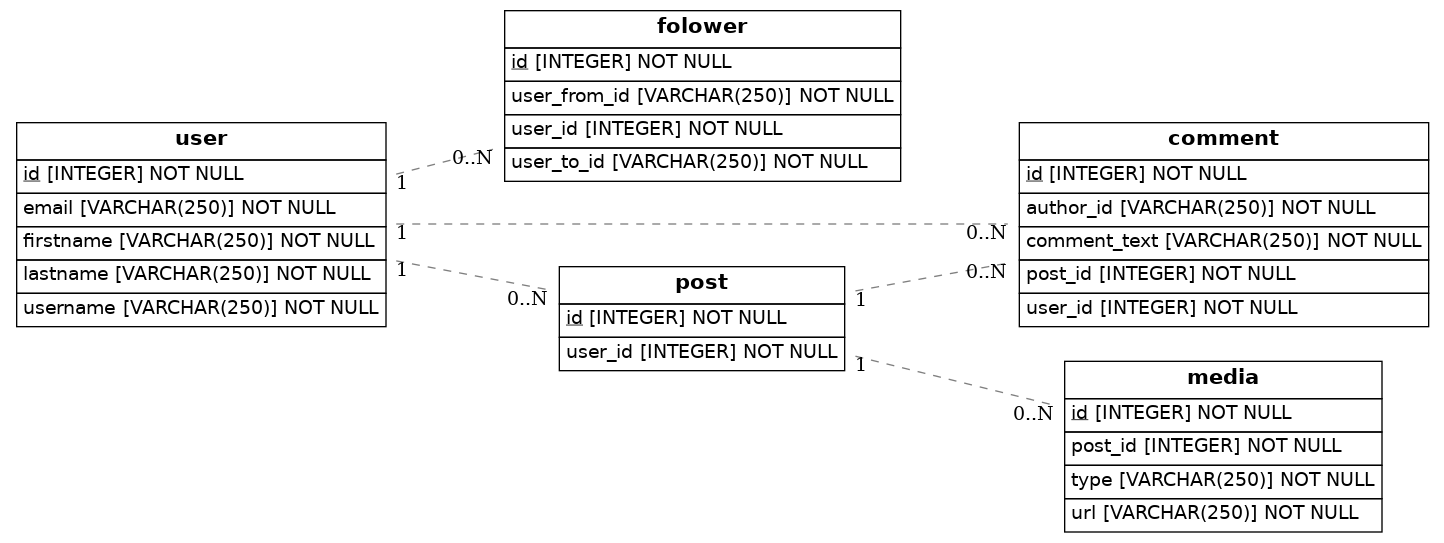
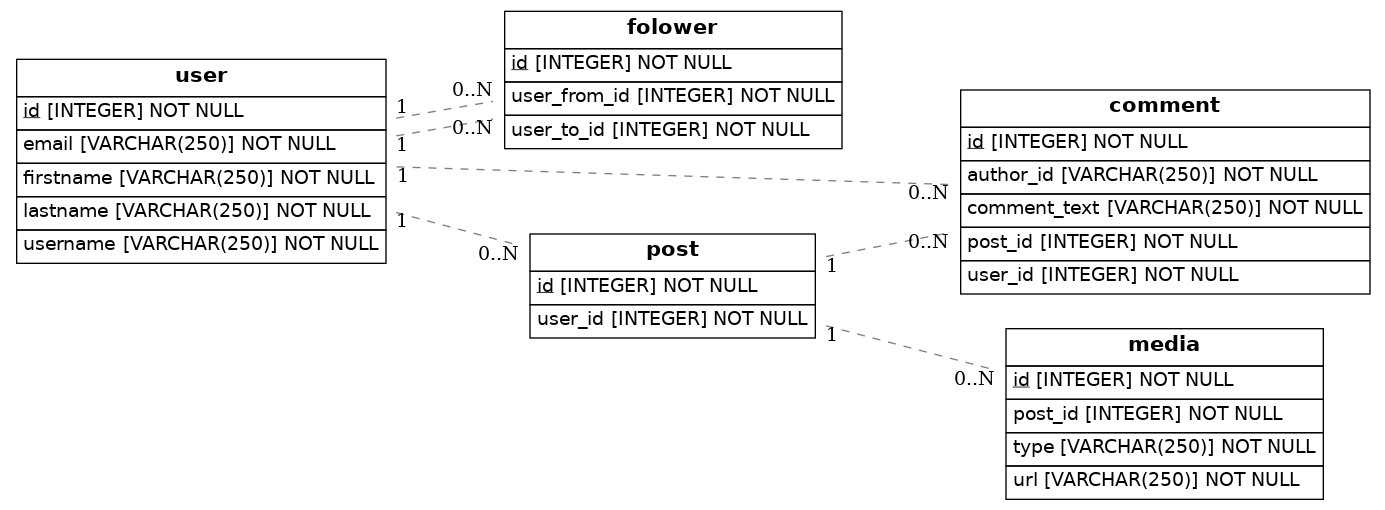
instagram

diff --git a/src/models.py b/src/models.py
@@ -12,9 +12,9 @@ class Follower(Base):
     # Here we define columns for the table person
     # Notice that each column is also a normal Python instance attribute.
     id = Column(Integer, primary_key=True)
-    user_from_id = Column(String(250), nullable=False)
-    user_to_id = Column(String(250), nullable=False)
-    user_id = Column(Integer, ForeignKey('user.id'),
+    user_from_id = Column(Integer, ForeignKey('user.id'),
+        nullable=False)
+    user_to_id = Column(Integer, ForeignKey('user.id'),
         nullable=False)
     
 class User(Base):
